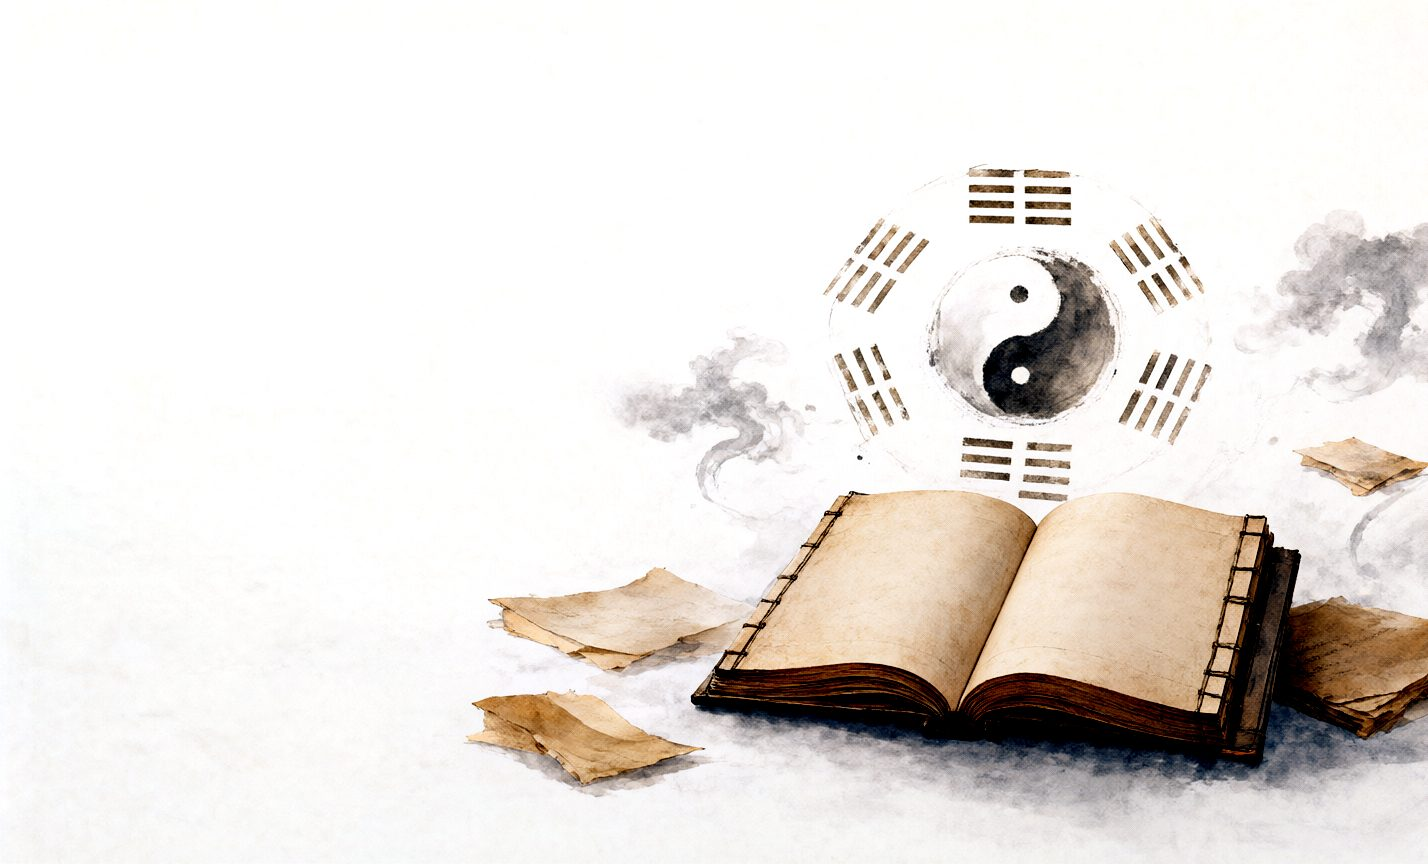
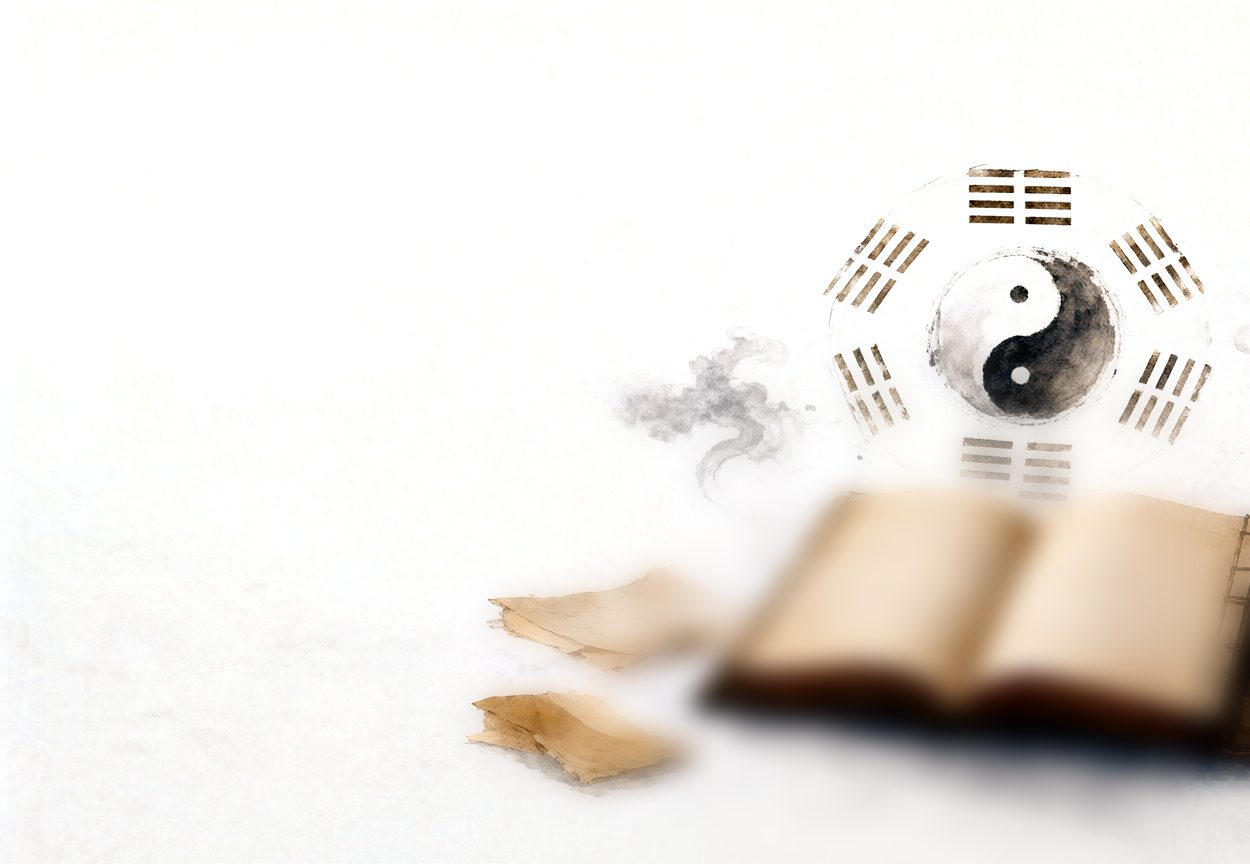
fix(ziwei): 淺色背景透光化，解決被遮住感
- 表單/卡片改半透明＋backdrop blur，背景可透出

- 奶油遮罩只保留左側文字區，右側大幅降低

- 古書局部柔化＋徑向淡出，去除硬邊與線裝孔

Changed region(s): [[0.312, 0.1875, 1.0, 0.9688]]

diff --git a/source/ziwei-fortune/styles.css b/source/ziwei-fortune/styles.css
@@ -85,11 +85,11 @@ body::after {
 body.light::after {
   display: block;
   background:
-    linear-gradient(90deg, rgba(245, 240, 230, 0.92) 0%, rgba(245, 240, 230, 0.72) 28%, rgba(245, 240, 230, 0.28) 48%, rgba(245, 240, 230, 0.08) 64%, rgba(245, 240, 230, 0) 100%),
+    linear-gradient(90deg, rgba(245, 240, 230, 0.9) 0%, rgba(245, 240, 230, 0.62) 26%, rgba(245, 240, 230, 0.18) 44%, rgba(245, 240, 230, 0.04) 60%, rgba(245, 240, 230, 0) 80%),
     url("./bg-ziwei-light.jpg") right top / 100% auto no-repeat;
   opacity: 1;
-  mask-image: linear-gradient(180deg, #000 0%, rgba(0, 0, 0, 0.78) 60%, rgba(0, 0, 0, 0.28) 88%, transparent 100%);
-  -webkit-mask-image: linear-gradient(180deg, #000 0%, rgba(0, 0, 0, 0.78) 60%, rgba(0, 0, 0, 0.28) 88%, transparent 100%);
+  mask-image: radial-gradient(100% 95% at 44% 30%, #000 38%, rgba(0, 0, 0, 0.8) 58%, rgba(0, 0, 0, 0.3) 80%, transparent 100%);
+  -webkit-mask-image: radial-gradient(100% 95% at 44% 30%, #000 38%, rgba(0, 0, 0, 0.8) 58%, rgba(0, 0, 0, 0.3) 80%, transparent 100%);
 }
 
 h1, h2, h3, .brand-text { font-family: var(--serif); font-weight: 600; letter-spacing: 0.02em; }
@@ -219,20 +219,18 @@ input[type="text"], input[type="number"], select {
 body.light input[type="text"], body.light input[type="number"], body.light select { background-color: #fff; }
 body.light input[type="text"], body.light input[type="number"], body.light select,
 body.light .segmented { border-color: rgba(60, 45, 25, 0.24); }
-body.light .eyebrow, body.light .text-btn { color: #8a5f16; }
-body.light .field-label, body.light .form-note { color: #5d5548; }
+body.light .eyebrow, body.light .text-btn { color: #7a5312; }
+body.light .field-label, body.light .form-note { color: #4f463a; }
 body.light .form-note { font-size: 12.5px; }
-
-@media (min-width: 761px) and (max-width: 1600px) {
-  body.light::after {
-    background:
-      linear-gradient(90deg, rgba(245, 240, 230, 0.92) 0%, rgba(245, 240, 230, 0.72) 28%, rgba(245, 240, 230, 0.28) 48%, rgba(245, 240, 230, 0.08) 64%, rgba(245, 240, 230, 0) 100%),
-      linear-gradient(270deg, rgba(245, 240, 230, 0.95) 0%, rgba(245, 240, 230, 0.55) 8%, rgba(245, 240, 230, 0) 18%),
-      url("./bg-ziwei-light.jpg") right top / 100% auto no-repeat;
-  }
+body.light .hero-points li { color: #5d5548; }
+body.light .panel {
+  background: linear-gradient(170deg, rgba(255, 253, 248, 0.92), rgba(250, 246, 237, 0.88));
+  -webkit-backdrop-filter: blur(16px) saturate(1.05);
+  backdrop-filter: blur(16px) saturate(1.05);
+  border-color: rgba(60, 45, 25, 0.16);
+  box-shadow: 0 18px 44px rgba(90, 70, 40, 0.1);
 }
-body.light .panel { border-color: rgba(60, 45, 25, 0.14); box-shadow: 0 18px 44px rgba(90, 70, 40, 0.1); }
-body.light .palace-cell { border-color: rgba(60, 45, 25, 0.16); }
+body.light .palace-cell { border-color: rgba(60, 45, 25, 0.16); background: rgba(255, 255, 255, 0.72); }
 input:focus, select:focus { border-color: var(--gold); box-shadow: 0 0 0 3px rgba(217, 184, 113, 0.14); }
 
 select {
